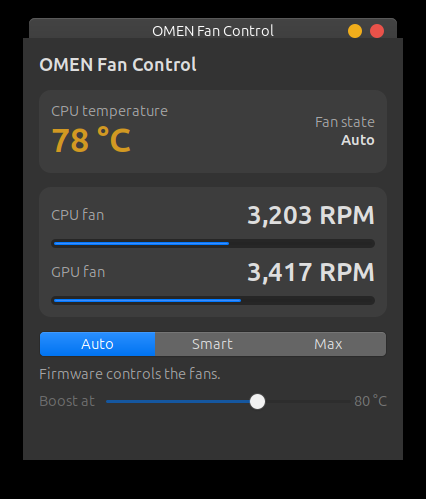
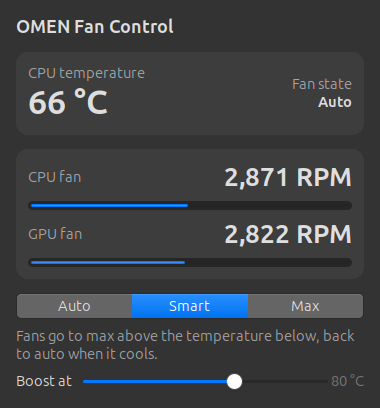
docs: add screenshots of each mode; fix window widening in Smart mode
Wrap the mode hint and status labels so the window keeps its width, and
hide the empty status line.

diff --git a/omen_fan_gui.py b/omen_fan_gui.py
@@ -88,6 +88,8 @@ class FanWindow(Gtk.Window):
         root.pack_start(self._build_mode_box(), False, False, 0)
         self.status = label("", ("dim",))
         self.status.set_line_wrap(True)
+        self.status.set_max_width_chars(40)
+        self.status.set_no_show_all(True)  # only shown when there's an error
         root.pack_start(self.status, False, False, 0)
 
         self._select_mode(self.config["mode"])
@@ -145,6 +147,7 @@ class FanWindow(Gtk.Window):
         box.pack_start(switcher, False, False, 0)
         self.mode_hint = label("", ("dim",))
         self.mode_hint.set_line_wrap(True)
+        self.mode_hint.set_max_width_chars(40)  # wrap instead of widening the window
         box.pack_start(self.mode_hint, False, False, 0)
 
         self.smart_box = Gtk.Box(orientation=Gtk.Orientation.HORIZONTAL, spacing=8)
@@ -219,6 +222,7 @@ class FanWindow(Gtk.Window):
 
     def _set_status(self, text: str, error: bool = False) -> None:
         self.status.set_text(text)
+        self.status.set_visible(bool(text))
         ctx = self.status.get_style_context()
         (ctx.add_class if error else ctx.remove_class)("status-err")
 

diff --git a/README.md b/README.md
@@ -14,6 +14,19 @@ It's a lightweight Linux alternative to the fan control in Windows' **OMEN Gamin
 
 Closing the window puts the fans back to Auto, so they never stay stuck at full speed.
 
+### Screenshots
+
+<table>
+  <tr>
+    <th>Auto</th><th>Smart</th><th>Max</th>
+  </tr>
+  <tr>
+    <td valign="top"><img src="docs/mode-auto.png" width="260" alt="Auto mode: firmware controls the fans"></td>
+    <td valign="top"><img src="docs/mode-smart.png" width="260" alt="Smart mode: boost-at temperature slider set to 80 °C"></td>
+    <td valign="top"><img src="docs/mode-max.png" width="260" alt="Max mode: both fans at full speed"></td>
+  </tr>
+</table>
+
 ## Supported laptops
 
 | Laptop | Board ID | Distro | Kernel | Status |
